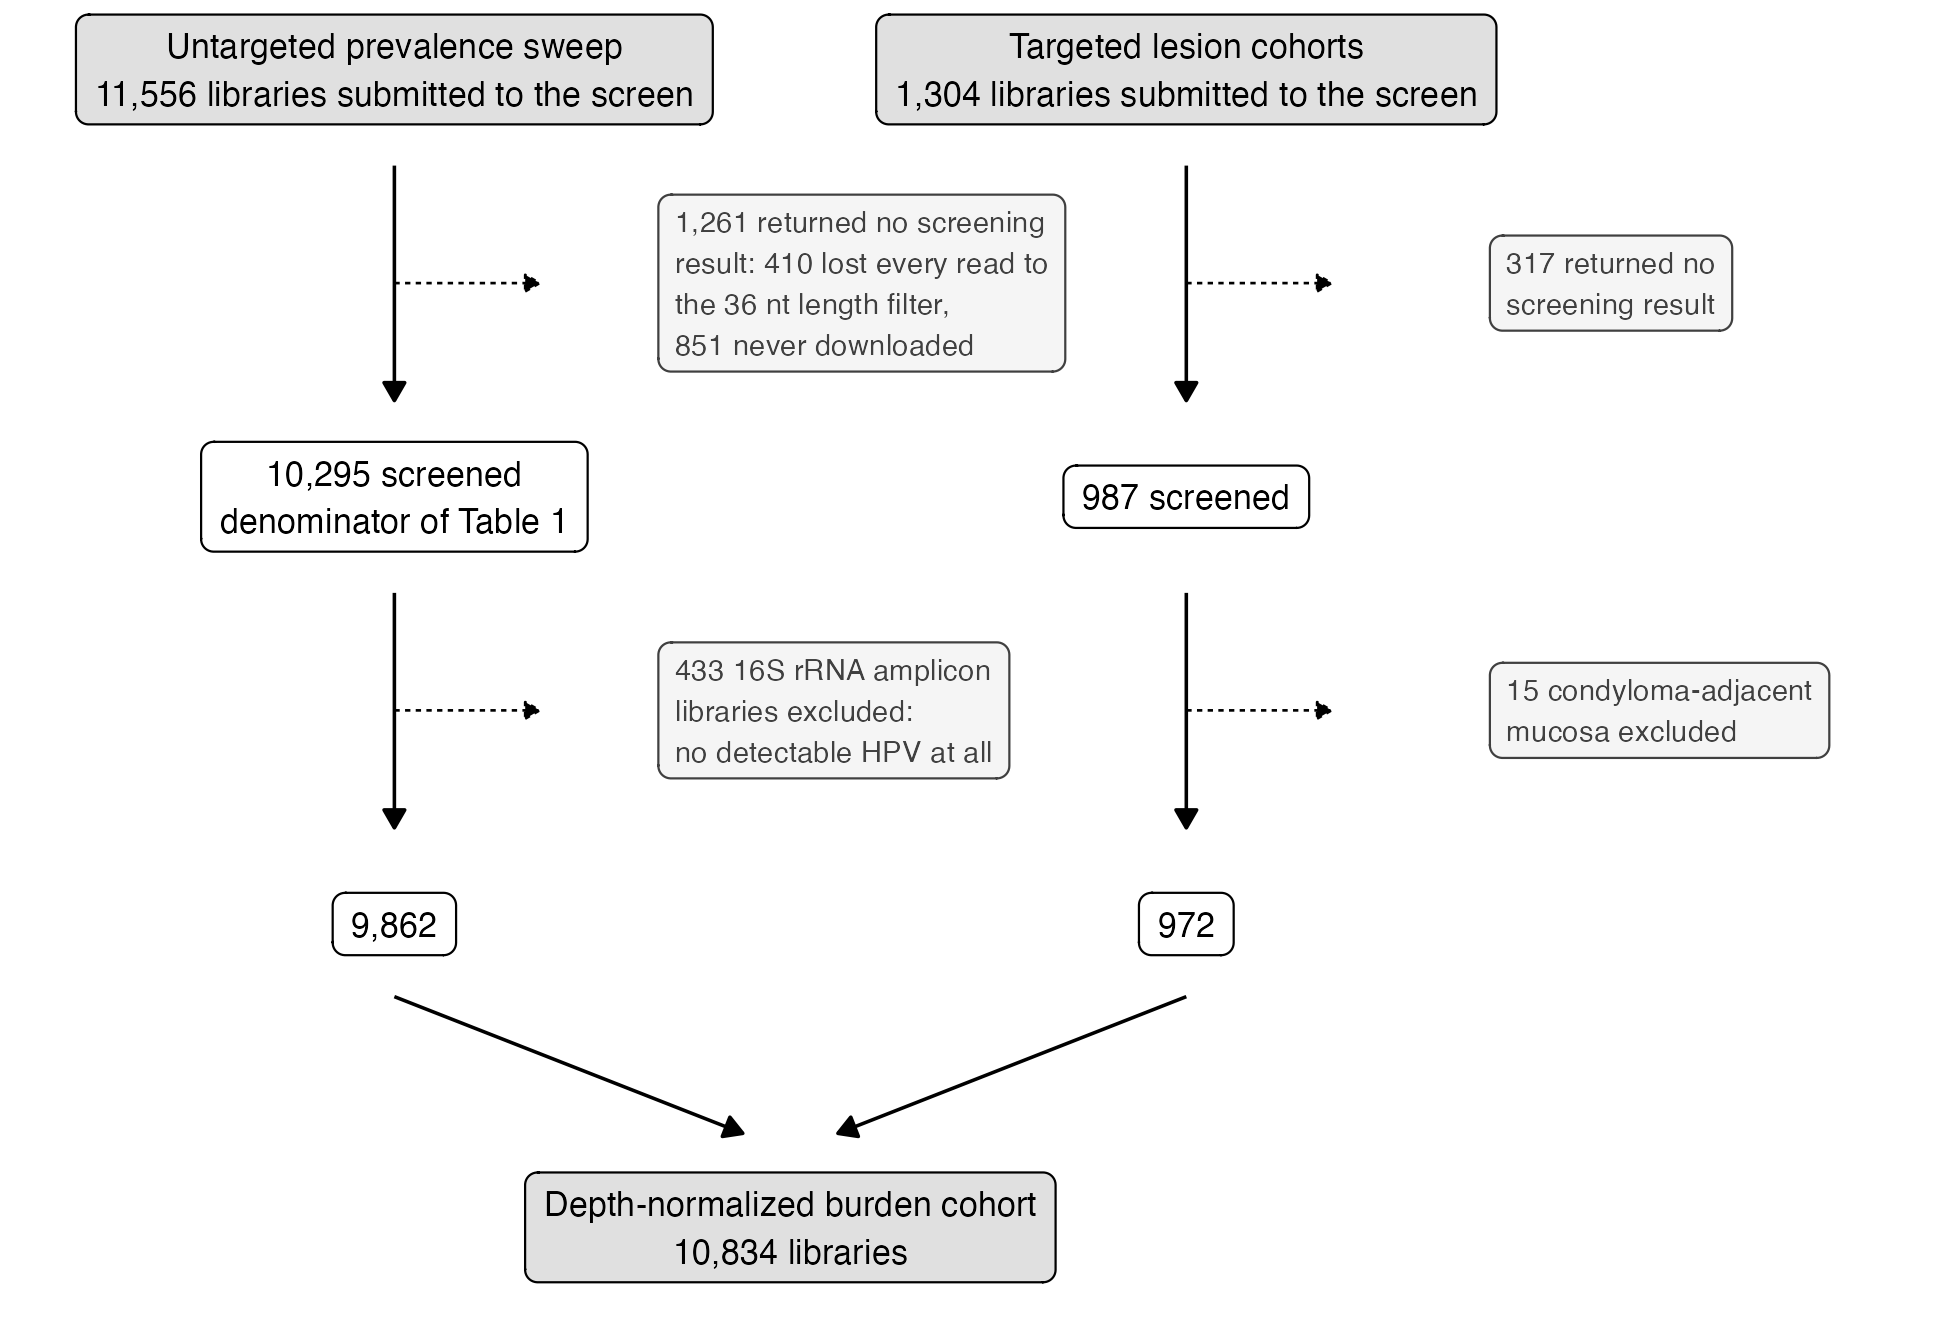
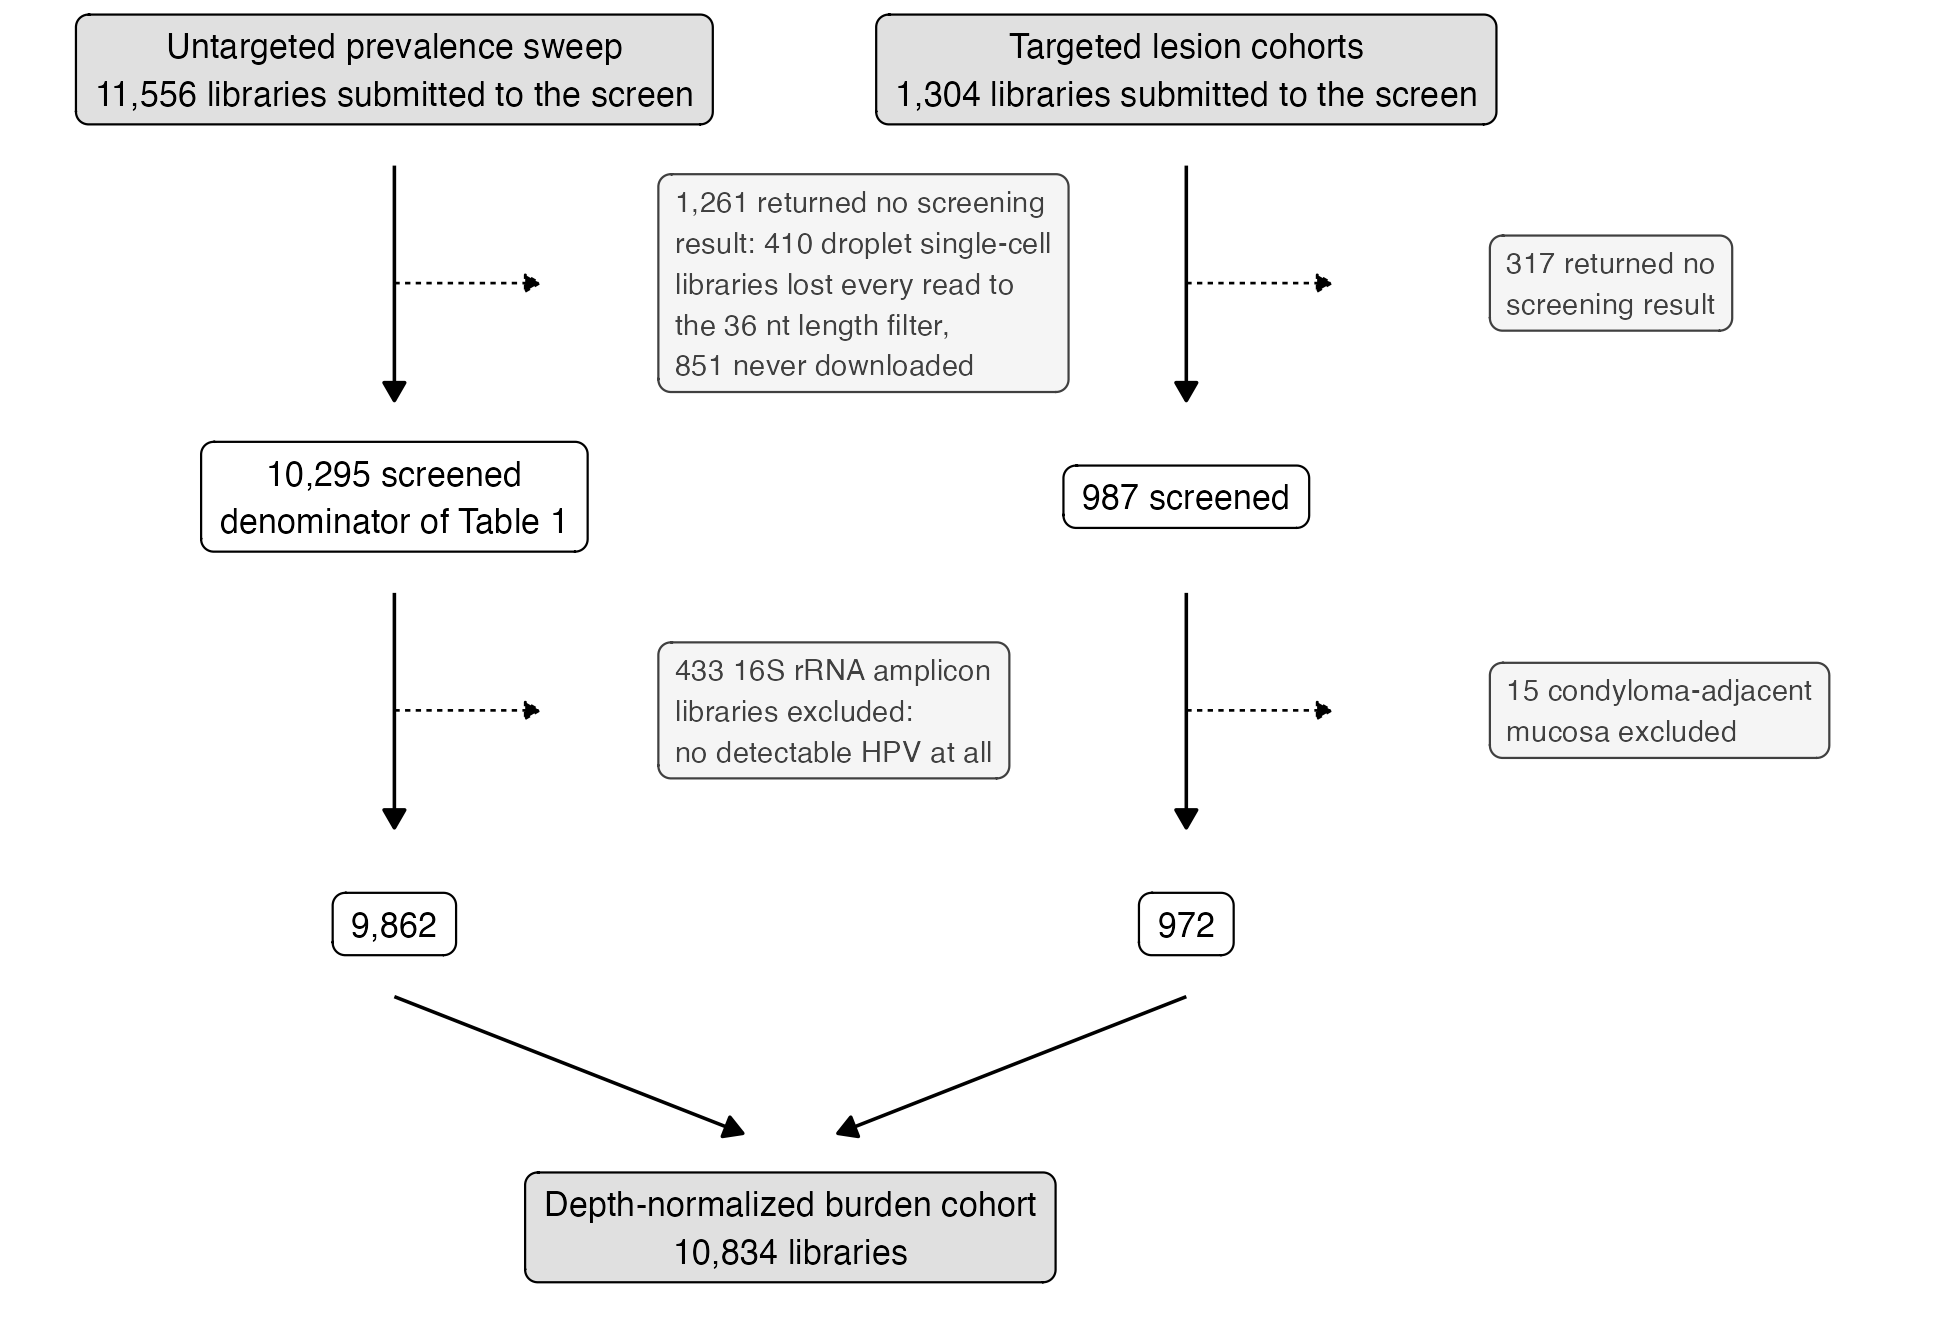
manuscript: split the long supplementary sentences, and make the flowchart say what the Methods says
Clears the last two mechanical items from the draft q audit.

Thousands separators: nothing to fix. Checked on the rendered document
rather than the source, every value of 1,000 or more in running text,
tables and the supplement is grouped, in draft u and draft q alike. The
bare four-digit values the audit saw are the postal code, the telephone
number, the EU grant number, a journal page number and limit=9999 in the
PaVE REST URL. None is a count.

Long sentences: 19 of them, not 7. All split, longest supplementary
sentence now exactly 50 words. Every split is punctuation plus a
connective, except the cell line section, where one 99 word sentence
defined all three annotation axes in nested parentheses and is now one
sentence per axis. No claim, number, interval, condition or hedge
dropped. The main text is left alone, since it is inside the word limit.

Round 9 droplet passage: 231 words to 183. It withheld its conclusion
until after three sentences of read geometry. It now states the finding
first, that all 410 length filtered libraries are droplet single cell,
then gives the geometry, the sharpness check and the retained full
length case.

Figure S6: the loss box said "410 lost every read to the 36 nt length
filter", true before round 9 and incomplete after it. It now names the
chemistry, and figure_cohort_flow.R stops the build unless the geometry
table still supports the word: the length filtered set, the sweep's
[…]

Changed region(s): [[0.3385, 0.1242, 0.5538, 0.3106]]

diff --git a/manuscript/review_2026-11-02/author_comments_2026-11-02.md b/manuscript/review_2026-11-02/author_comments_2026-11-02.md
@@ -1151,3 +1151,74 @@ manuscript reports 2.41%; the span, not the midpoint, is the point.
 Main text unchanged at 3,899 words, abstract 200. The whole change is in the supplementary
 Methods and the Data Availability Statement, both outside the word limit. No number,
 interval or result moves.
+
+---
+
+## Round 10: the two mechanical items, and the droplet passage tightened (draft v, 2026-11-04)
+
+The two items left over from the draft-q audit (§7), plus a verbosity check on the round 9
+prose and the flowchart that has to agree with it.
+
+### Thousands separators: nothing to fix, and the audit item is withdrawn
+
+The audit reported "grouped (1,073, 1,261) alongside bare four-digit values". Checked against
+the rendered document rather than the source, every number of 1,000 or more in running text,
+in tables and in the supplement is grouped, in draft u and in draft q alike. The bare
+four-digit values the check saw are the postal code and telephone number on the title page,
+the EU grant number 101102733, a journal page number in the reference list, and `limit=9999`
+in the PaVE REST URL. None of them is a count. The item is closed as a false positive, which
+is the outcome the audit itself allowed for when it said the check "cannot tell them apart".
+
+### Sentences over 50 words: 19, not 7, and all of them split
+
+Measured on the rendered supplement, splitting on sentence-final punctuation, the supplement
+carried 19 sentences over 50 words, not 7. The audit's count of four in "Read download and
+quality control" was right; its total was low. All 19 are now split, and the longest
+supplementary sentence is exactly 50 words.
+
+| Section | Before | After |
+|---|---:|---|
+| Read download and quality control | 63, 62, 54, 53 | 4 split |
+| Cohort framing and depth-normalized burden analysis | 70, 67 | 5 sentences |
+| Independent DNA reservoir from public metagenomes | 67, 61, 55 | 6 sentences |
+| Cell-line, engineered, and contaminant flagging | 99 (one sentence, three axes) | 5 sentences |
+| Integration status | 51 | 2 sentences |
+| How far the co-infection table can be read | 66, 62, 53, 53 | 9 sentences |
+| Library chemistry does not manufacture the contrast | 67 | 2 sentences |
+| Table S6 note, Table S7 note, detection-level prose | 59, 54, 51 | 6 sentences |
+
+No claim, number, interval, condition or hedge was dropped: every split is a punctuation
+change plus the connective the new sentence needs. The one that is more than punctuation is
+the cell-line paragraph, where a single 99-word sentence defined all three annotation axes in
+nested parentheses; it is now one sentence per axis.
+
+The main text has 8 sentences over 50 words and was left alone, since it is inside the word
+limit and splitting adds words. The longest sentence in the document, 68 words, is in the
+Data Availability Statement, which is outside the limit and could be split for free if anyone
+wants it.
+
+### The round 9 droplet passage, 231 words to 183
+
+TP asked whether the new supplementary Methods prose describes the whole journey rather than
+the result. It partly did: it withheld the conclusion ("the loss is therefore confined to
+droplet chemistry") until after the evidence, so the reader carried three sentences of read
+geometry without knowing what they were for. The passage now states the finding first, all
+410 are droplet single-cell libraries, then gives the geometry, the sharpness check and the
+retained full-length case. Every number and the exactness claim survive, and the longest
+sentence in it is 43 words, down from 63.
+
+### The flowchart now says what the Methods says
+
+@suppfig-cohort-flow carried "1,261 returned no screening result: 410 lost every read to the
+36 nt length filter, 851 never downloaded", which was true before round 9 and incomplete
+after it. The loss box now reads "410 droplet single-cell libraries lost every read to the
+36 nt length filter". The word "droplet" is not typed into the figure on trust:
+`figure_cohort_flow.R` reads `manuscript/read_geometry_summary.tsv` and stops the build
+unless the length-filtered set, the sweep's sub-36 nt first-mate set and its unscreened
+subset are all the same 410 libraries and no screened library has a sub-36 nt first mate.
+
+### Effect
+
+Main text unchanged, abstract 200. The supplement moves 8,384 to 8,377 rendered words: the
+droplet cut pays for the 41 words the splits add. No number, interval or result moves.
+Figure S6 regenerated, no other figure touched.
